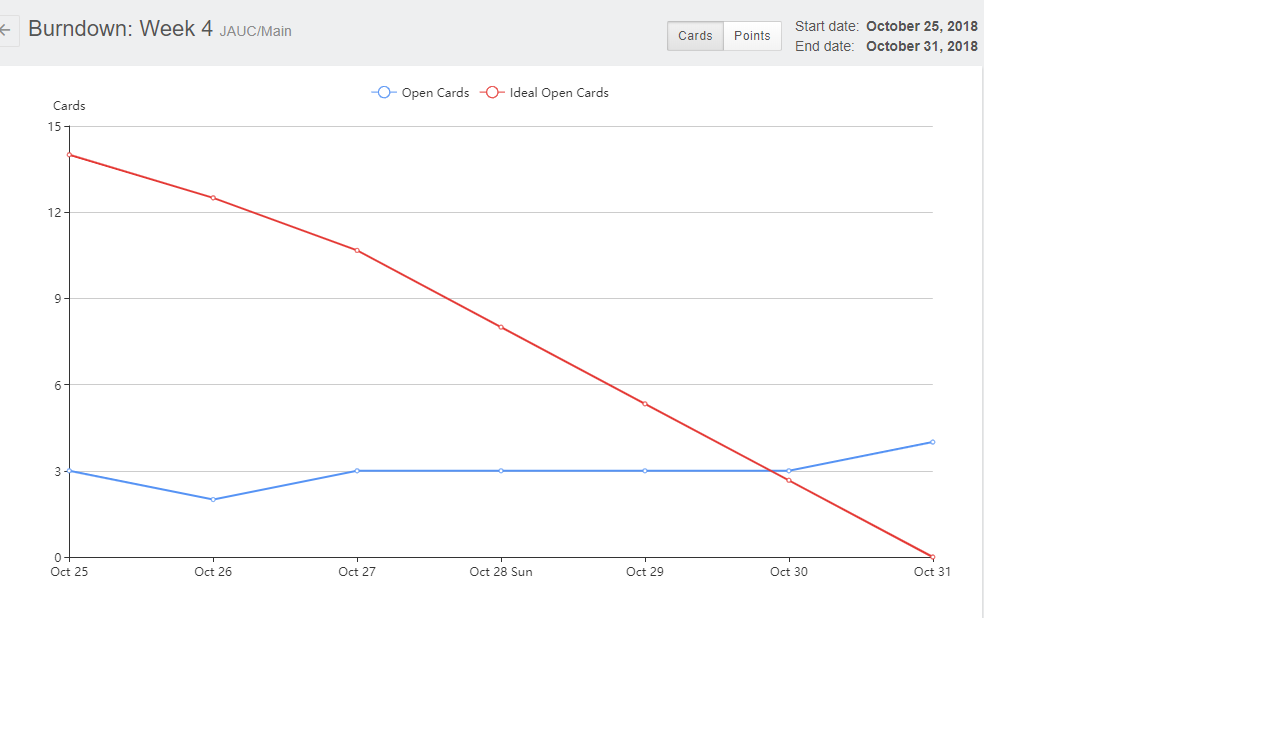
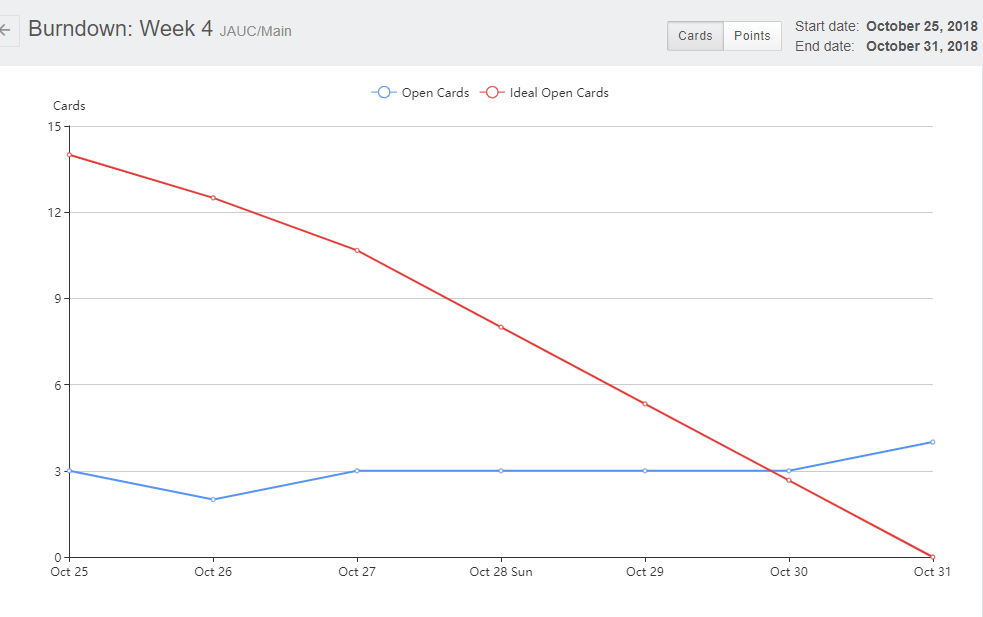
added image tittles

diff --git a/docs/sprints/week-04.md b/docs/sprints/week-04.md
@@ -8,20 +8,35 @@
 
 - Any sprint documentation (sprintbacklog, user stories, designs, test etc.)
 
-During week 4 we worked on 20 issues worth 48 story points. 4 issues had to be moved into Week 5 sprint due to its complexity and lack of time to resolve.
-![Burndown chart](../assets/img/week4-burndown.png)
-![Sprint Backlog](../assets/img/week4-backlog.png)
+  During week 4 we worked on 20 issues worth 48 story points. 4 issues had to be moved into Week 5 sprint due to its complexity and lack of time to resolve.
 
-![Working Admin Dashboard showing car location](../assets/img/week4-admin-dashboard.png)
-![Test suite running with initial basic tests](../assets/img/week4-admin-tests.png)
-![Login option implemented](../assets/img/week4-login-options.png)
-![Google login implemented](../assets/img/week4-login-google.png)
-![Continuous integration implemented](../assets/img/week4-ci.png)
-![Coordinates from Arduino board being stored in backend database](../assets/img/week4-arduino-firebase.png)
+  **Burndown chart**
+  ![Burndown chart](../assets/img/week4-burndown.png)
 
-![alt text](http://url/to/img.png)
-![alt text](http://url/to/img.png)
-![alt text](http://url/to/img.png)
+  **Sprint Backlog**
+  ![Sprint Backlog](../assets/img/week4-backlog.png)
+
+  **Working Admin Dashboard showing car location**
+  ![Working Admin Dashboard showing car location](../assets/img/week4-admin-dashboard.png)
+
+  **Test suite running with initial basic tests**
+  ![Test suite running with initial basic tests](../assets/img/week4-admin-tests.png)
+
+  **Login option implemented**
+  ![Login option implemented](../assets/img/week4-login-options.png)
+
+  **Google login implemented**
+  ![Google login implemented](../assets/img/week4-login-google.png)
+
+  **Continuous integration implemented**
+  ![Continuous integration implemented](../assets/img/week4-ci.png)
+
+  **Coordinates from Arduino board being stored in backend database**
+  ![Coordinates from Arduino board being stored in backend database](../assets/img/week4-arduino-firebase.png)
+
+  ![alt text](http://url/to/img.png)
+  ![alt text](http://url/to/img.png)
+  ![alt text](http://url/to/img.png)
 
 - Sprint retrospective/review documentation.
 
